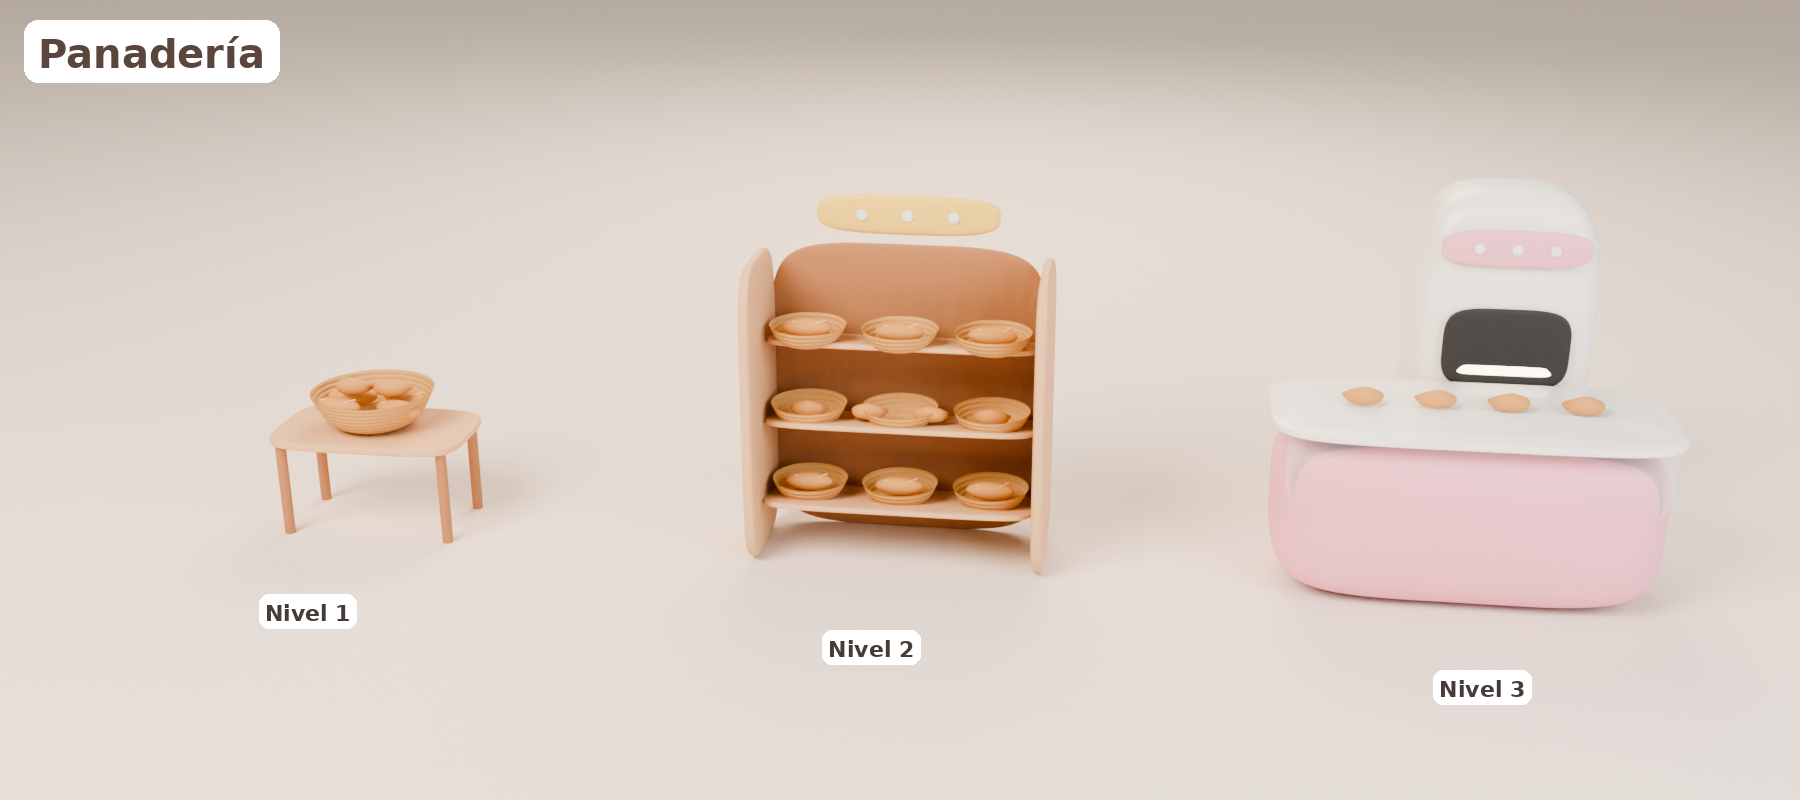
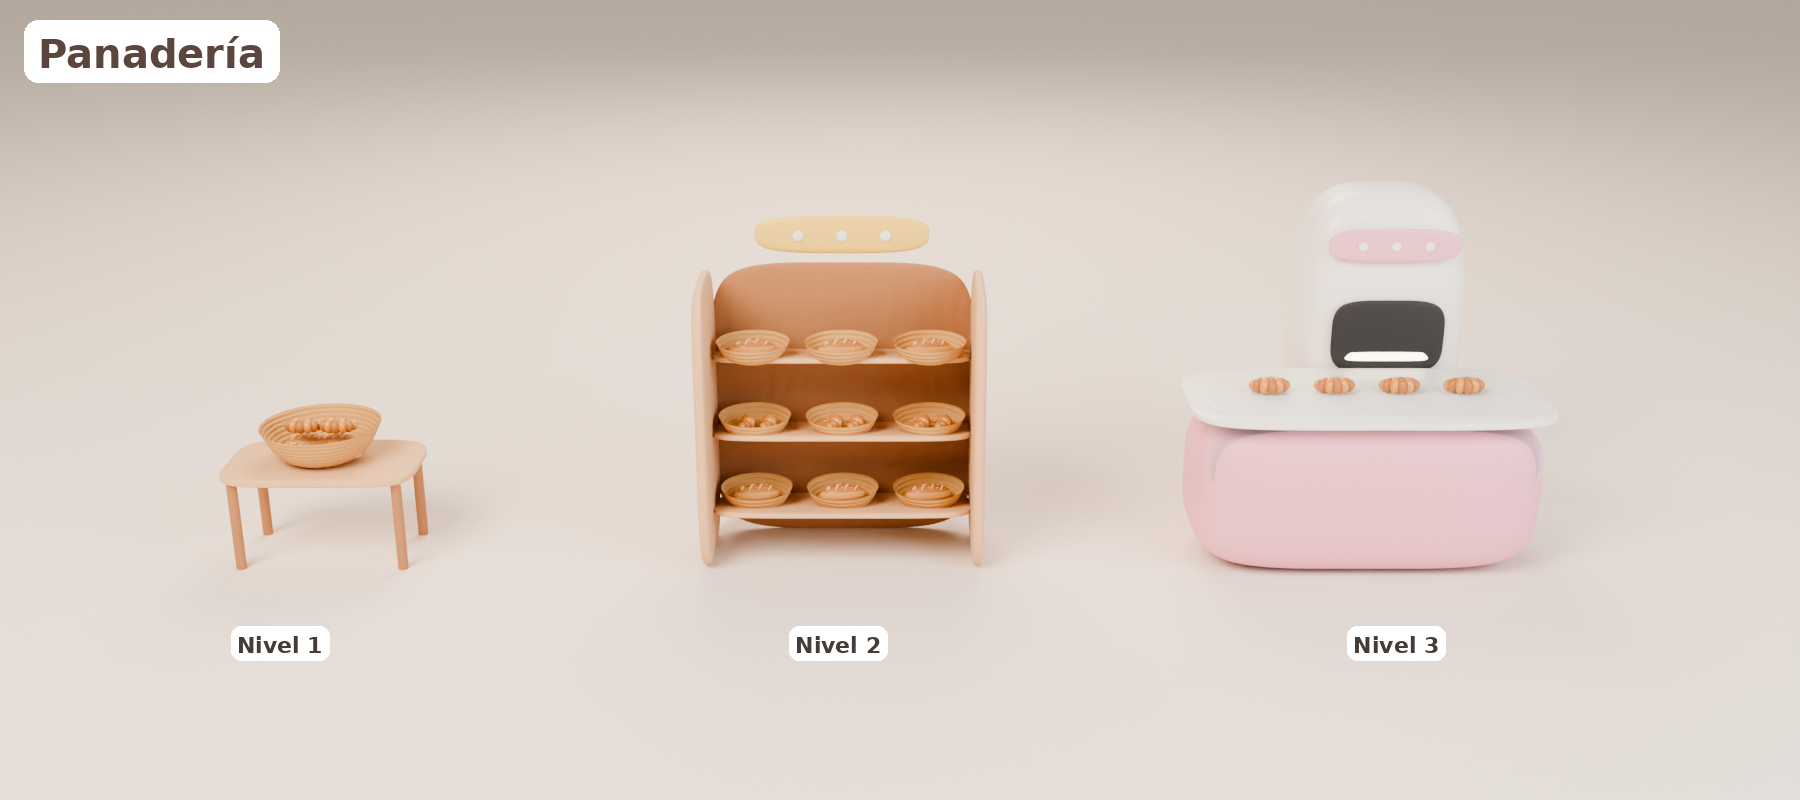
Panadería N3 como vitrina de pastelería de vidrio con tortas, croissants y pan a la vista
Claude-Session: https://claude.ai/code/session_011dAX7NrmbGrF2px86DxVyx

diff --git a/personajes/blender/vitrinas.py b/personajes/blender/vitrinas.py
@@ -380,14 +380,19 @@ def panaderia(level, coll):
         sign(coll, 'blanco', (0, 0.3, H + 0.15), (0.45, 0.03, 0.1), 'amarillo')
     else:
         W = 0.9
-        box('mostrador', (0, 0, 0.42), (W, 0.4, 0.42), coll, 'rosa', p=6)
-        box('tapa', (0, 0, 0.86), (W + 0.03, 0.43, 0.03), coll, 'blanco', p=8)
-        box('vidrio frente', (0, -0.32, 0.72), (W - 0.04, 0.012, 0.28), coll, 'vidrio', p=8)
-        for z in (0.5, 0.88):
-            box('repisa', (0, 0.0, z), (W - 0.06, 0.3, 0.012), coll, 'blanco', p=10)
-        fill_row(coll, 'torta', -0.5, 0.5, 0.0, 0.51, 3, 0.8)
-        fill_row(coll, 'croissant', -0.5, 0.5, 0.0, 0.9, 4, 0.8)
-        box('luz', (0, 0.0, 0.84), (W - 0.1, 0.25, 0.008), coll, 'luz', p=6)
+        # Vitrina de pastelería: base rosada y caja de vidrio con dos repisas a la vista
+        box('mostrador', (0, 0, 0.3), (W, 0.4, 0.3), coll, 'rosa', p=6)
+        box('piso vitrina', (0, 0, 0.615), (W + 0.02, 0.42, 0.025), coll, 'blanco', p=8)
+        box('vidrio frente', (0, -0.38, 0.91), (W - 0.02, 0.012, 0.27), coll, 'vidrio', p=8)
+        box('vidrio techo', (0, 0, 1.19), (W, 0.4, 0.012), coll, 'vidrio', p=8)
+        for sx in (-1, 1):
+            box('vidrio lado', (sx * (W - 0.01), 0, 0.91), (0.012, 0.38, 0.27), coll, 'vidrio', p=8)
+            box('marco', (sx * W, -0.38, 0.91), (0.02, 0.02, 0.29), coll, 'blanco', p=8)
+        box('repisa', (0, 0.05, 0.9), (W - 0.06, 0.3, 0.012), coll, 'blanco', p=10)
+        fill_row(coll, 'torta', -0.55, 0.55, 0.0, 0.64, 3, 0.75)
+        fill_row(coll, 'croissant', -0.6, -0.1, -0.05, 0.915, 2, 0.8)
+        fill_row(coll, 'pan', 0.15, 0.6, 0.05, 0.915, 2, 0.7)
+        box('franja', (0, -0.395, 0.3), (W - 0.08, 0.012, 0.04), coll, 'blanco', p=6)
         # Horno de pan detrás
         box('horno', (0.2, 0.75, 0.9), (0.45, 0.3, 0.9), coll, 'blanco', p=5)
         box('boca horno', (0.2, 0.44, 1.05), (0.3, 0.02, 0.2), coll, 'negro', p=6)
